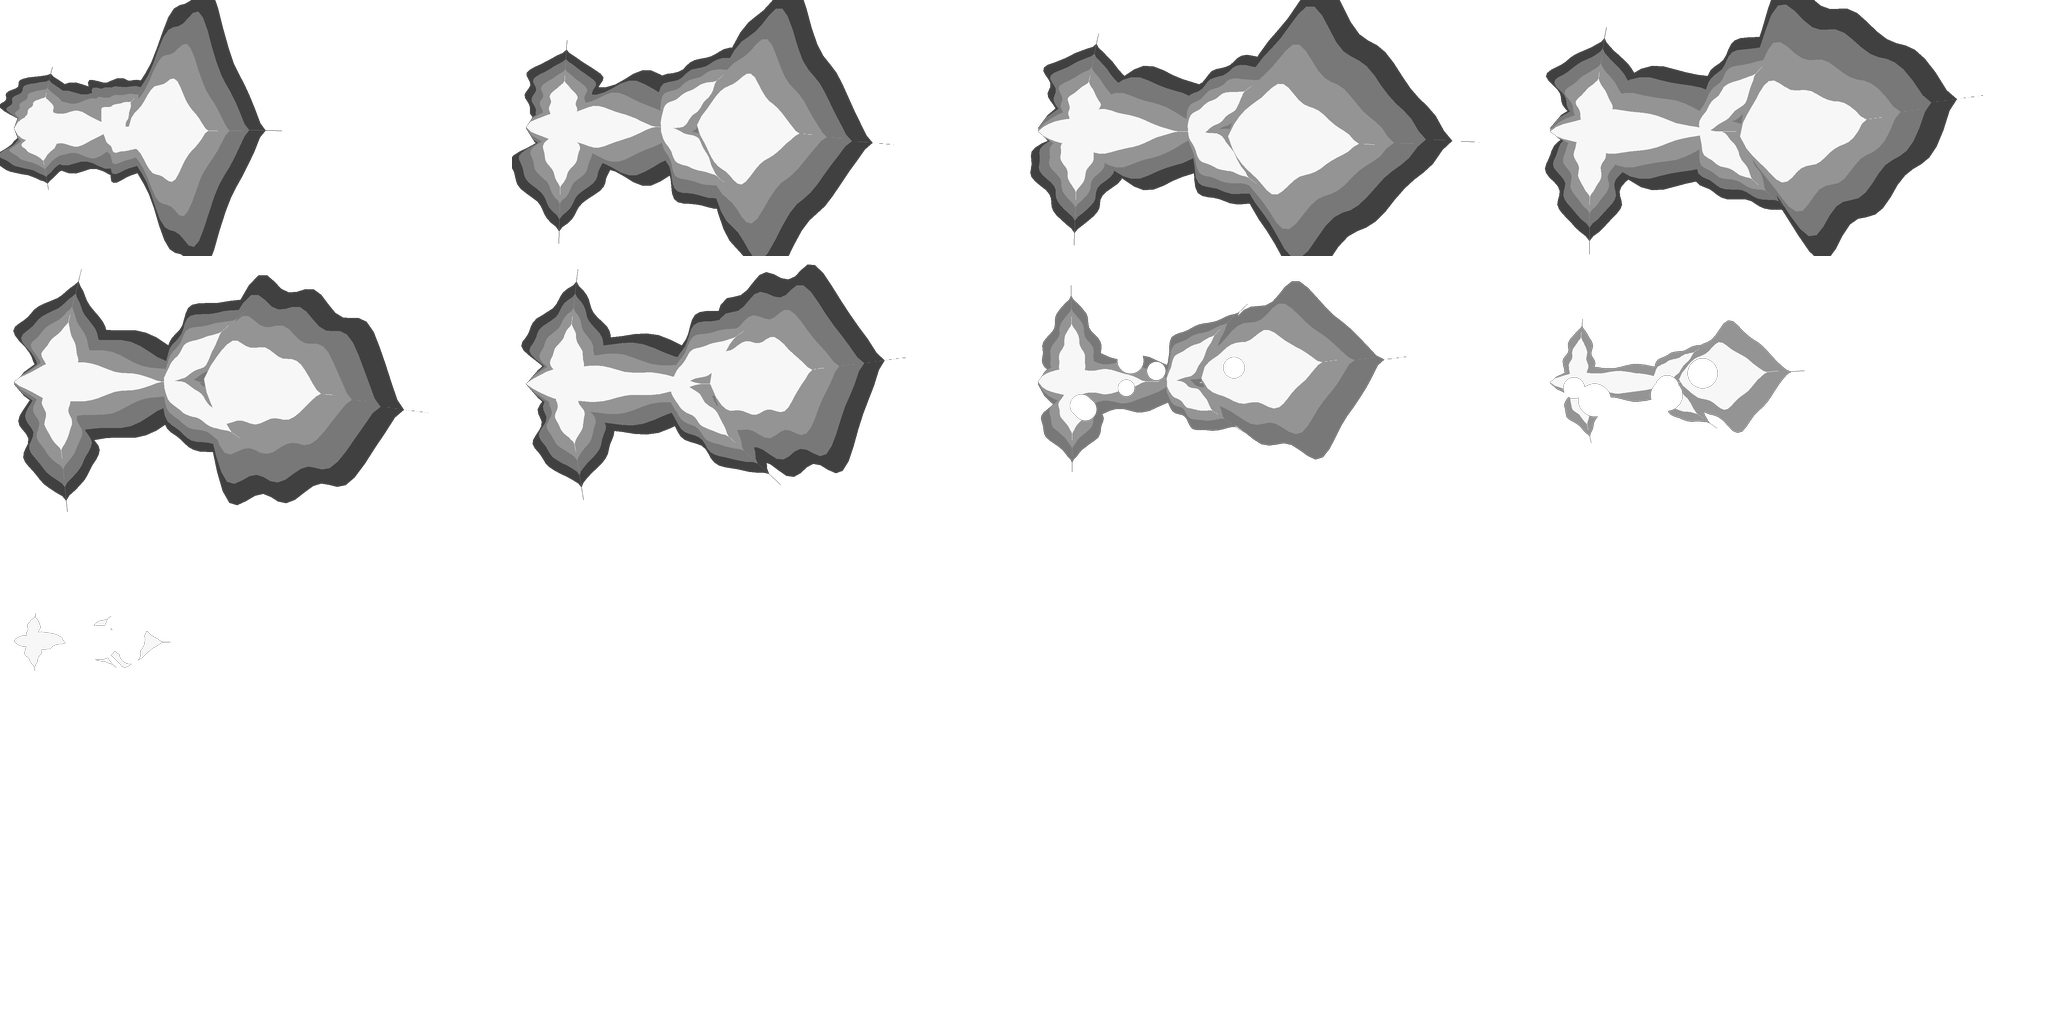
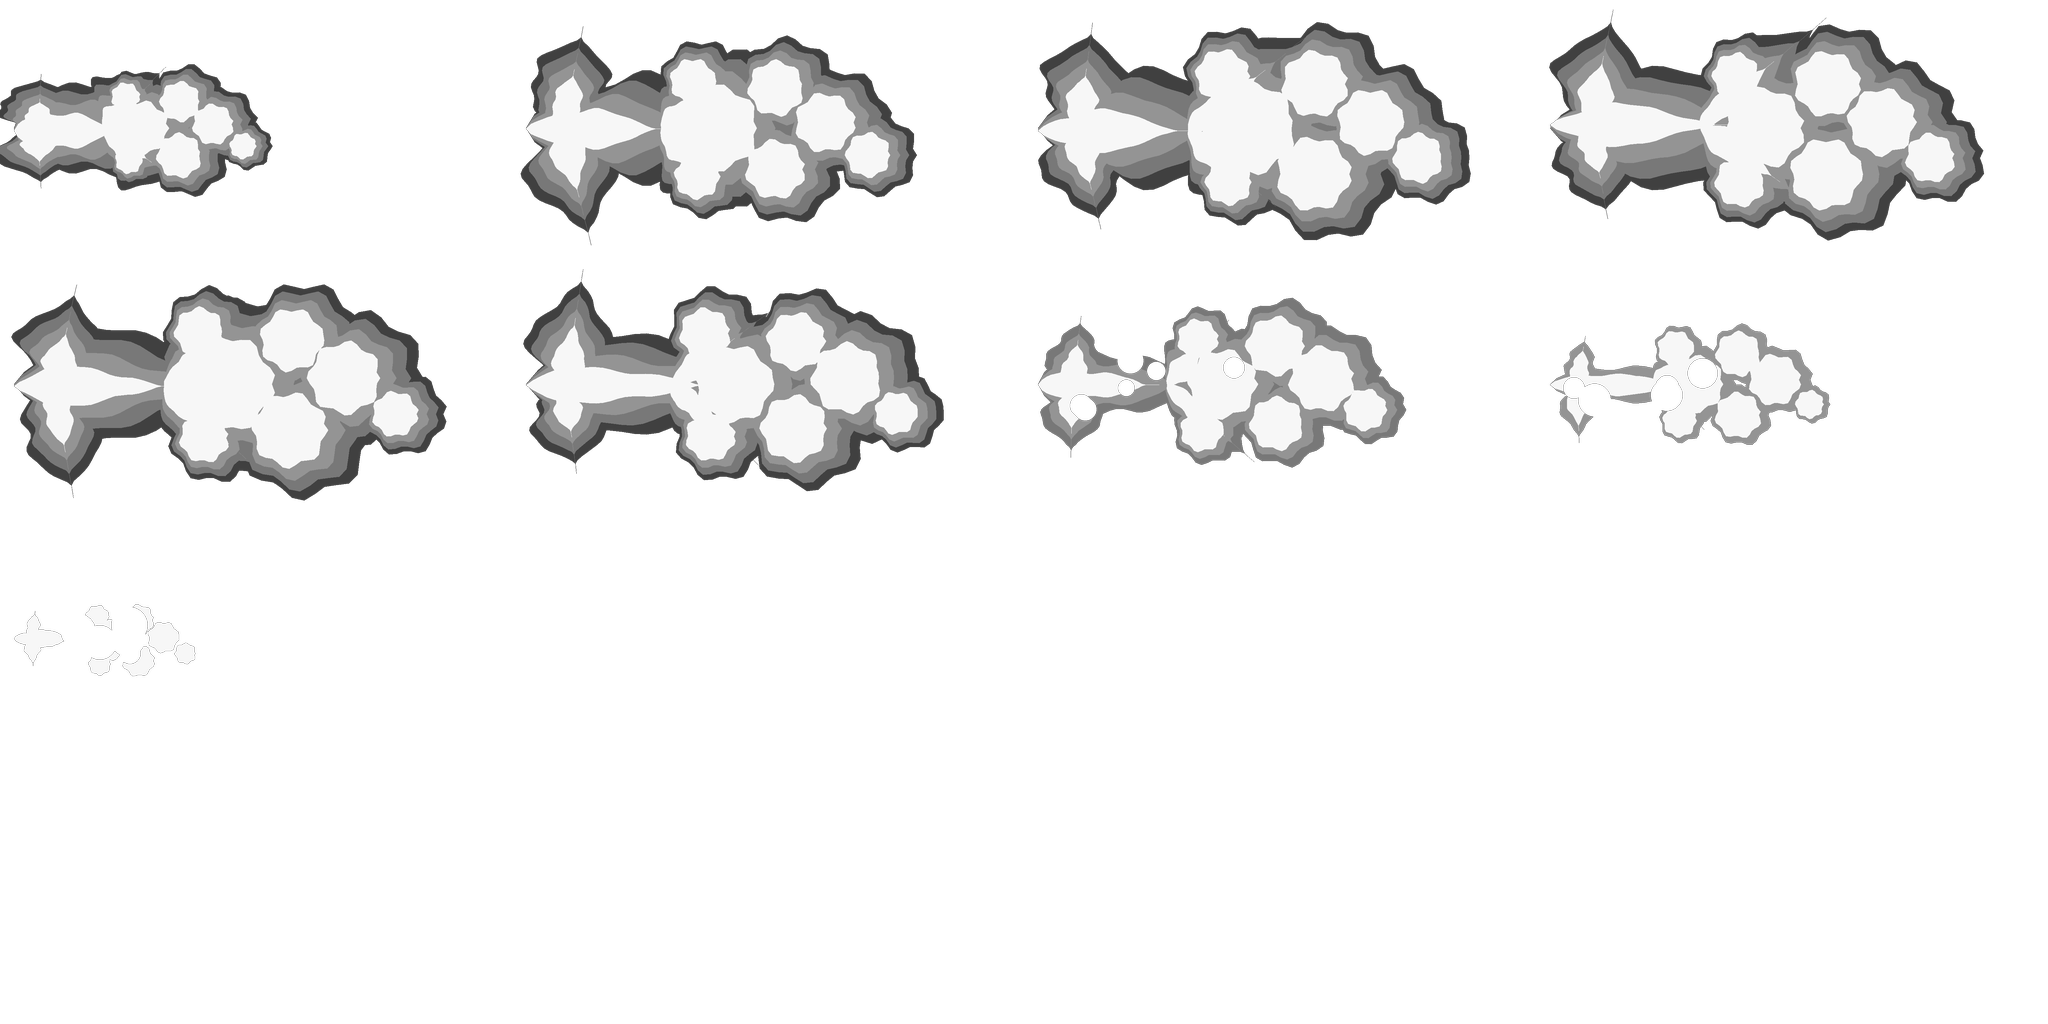
VFX: loop 2 rounds 20-21 - long gun fireball as balls, no bloom discs, arcs without laser tracers at night
- GunLong redrawn: the fireball as seven overlapping balls (it read as a flat orange hexagon), scaled 1.2; GunCrack
  1.4 and also the Salvo's launch. By day a calibre gun lights the ground through FireLight with a 0.35 card:
  Flash's default 2.6 glow card was the white disc over every blast. At night its own drawing glows 1.1.
- Indirect rounds at night: no team-green tracer (it read as a laser); the rocket head, and a small ember for the
  mortar round, fly the chord. Rocket trails in the filled grey Smoke puff (the wreck's ink rings chained).
- Sniper's brake by day: grows 0.8 and stands at most 1.0 x scale (a 3-man firework at 1.25).
- codemap refreshed.

Critic: r20 guns 72 (r19 63), small arms 78 (r19 76).

diff --git a/trench-warfare-3d/Assets/_Project/Presentation/Camera/TankRenderer.Guns.cs b/trench-warfare-3d/Assets/_Project/Presentation/Camera/TankRenderer.Guns.cs
@@ -41,7 +41,7 @@ namespace TW.Presentation.Tactical
         {
             switch (archetype)
             {
-                case VehicleArchetype.Tusk: return FlipbookFx.Book.GunCrack;
+                case VehicleArchetype.Tusk: case VehicleArchetype.Salvo: return FlipbookFx.Book.GunCrack;   // the Salvo's launch a crack too (r19: a white disc, no book)
                 case VehicleArchetype.Pavise: case VehicleArchetype.Banner: return FlipbookFx.Book.GunLong;
                 default: return FlipbookFx.Book.GunBlast;
             }
@@ -49,9 +49,11 @@ namespace TW.Presentation.Tactical
 
         /// <summary>A calibre book's width x the gun's Blast: the 37 mm small and sharp, the long gun big (r17: scale contrast,
         /// the two read as one flash at z40).</summary>
-        public static float CalibreScale(FlipbookFx.Book book) => book == FlipbookFx.Book.GunCrack ? 1.1f : book == FlipbookFx.Book.GunLong ? 1.8f : 1.6f;
+        public static float CalibreScale(FlipbookFx.Book book) => book == FlipbookFx.Book.GunCrack ? 1.4f : book == FlipbookFx.Book.GunLong ? 1.2f : 1.6f;   // r19: the crack up so its spikes read, the long gun's fireball down (1.8 was a sign in the air)
         /// <summary>A calibre book's glow by day: its drawn values, no more (1.4 bloomed it into a white disc on snow, r17).</summary>
         public const float OwnBlastDayGlow = 1.0f;
+        /// <summary>The glow card over the day light of a gun with its own blast drawing (Flash's default 2.6 is a white disc).</summary>
+        public const float OwnBlastLightCard = 0.35f;
 
         public static int RocketsOf(FxTier tier) => tier >= FxTier.High ? 4 : tier == FxTier.Medium ? 2 : 1;
 
@@ -95,7 +97,8 @@ namespace TW.Presentation.Tactical
                 for (int i = 0; i < segments; i++)
                 {
                     float a = i / (float)segments, b = (i + 1) / (float)segments;
-                    fx.AddTracer(ArcPoint(from, end, apex, a), ArcPoint(from, end, apex, b), team, Mathf.Min(width, 1.0f), lag + a * ArcSeconds);   // a thread, not a laser: the head and the smoke carry it (r10)
+                    if (!SceneMood.Night)   // at night no tracer: a team-green tube over the arc read as a laser (r19, r20); the head carries it
+                        fx.AddTracer(ArcPoint(from, end, apex, a), ArcPoint(from, end, apex, b), team, Mathf.Min(width, 1.0f), lag + a * ArcSeconds);   // a thread, not a laser: the head and the smoke carry it (r10)
                     // a rocket leaves its smoke hanging along the way it went, behind a burning head; a mortar round a thin grey thread
                     if (drawn && i > 0)
                     {
@@ -107,17 +110,24 @@ namespace TW.Presentation.Tactical
                             for (int n = 0; n < 2; n++)
                             {
                                 uint hh = FxQuality.Hash(salt * 131u + (uint)(j * 64 + i * 2 + n));
-                                float u = Mathf.Lerp(a, b, n * 0.5f + (FxQuality.Hash01(hh) - 0.5f) * 0.3f);
+                                float u = Mathf.Lerp(a, b, n * 0.5f + (FxQuality.Hash01(hh) - 0.5f) * 0.5f);
                                 Vector3 jit = new Vector3(FxQuality.Hash01(hh + 1u) - 0.5f, FxQuality.Hash01(hh + 2u) - 0.5f, FxQuality.Hash01(hh + 3u) - 0.5f) * 0.6f;
-                                books.Add(FlipbookFx.Book.WreckSmoke, ArcPoint(from, end, apex, u) + jit, RocketTrail * Mathf.Lerp(0.7f, 1.3f, FxQuality.Hash01(hh + 4u)),
+                                books.Add(FlipbookFx.Book.Smoke, ArcPoint(from, end, apex, u) + jit, RocketTrail * 0.6f * Mathf.Lerp(0.7f, 1.3f, FxQuality.Hash01(hh + 4u)),   // the filled grey puff: the wreck's book is ink rings, a chain in a line (r20)
                                     RocketTrailLife * Mathf.Lerp(0.75f, 1.25f, FxQuality.Hash01(hh + 5u)), (hh & 1u) != 0 ? FlipbookFx.Kind.Mirror : FlipbookFx.Kind.None,
-                                    velocity: wake, grow: 1.4f, alpha: 0.85f * Mathf.Lerp(0.6f, 1f, u), delay: lag + u * ArcSeconds);   // dark (the wreck's book: the Smoke book read as snow haze), it hangs and leans down wind
+                                    velocity: wake, grow: 1.4f, alpha: 0.6f * Mathf.Lerp(0.6f, 1f, u), delay: lag + u * ArcSeconds);   // dark (the wreck's book: the Smoke book read as snow haze), it hangs and leans down wind
                             }
                         }
                         else
                             books.Add(FlipbookFx.Book.WreckSmoke, at, 1.8f, 2.4f, (i & 1) == 0 ? FlipbookFx.Kind.Mirror : FlipbookFx.Kind.None,
                                 velocity: Vector3.up * 0.2f, grow: 1.2f, alpha: 0.8f, delay: lag + a * ArcSeconds);   // grey-dark, so it survives the day
                     }
+                }
+                if (!rocket && drawn && SceneMood.Night)   // the mortar round at night: a small ember flying the chord, in place of the tracer
+                {
+                    Vector3 start = ArcPoint(from, end, apex, 0.1f), chord = end - start;
+                    var cam = Camera.main;
+                    books.Add(FlipbookFx.Book.RocketHead, start, RocketHeadWidth * 0.5f, ArcSeconds * 0.9f, velocity: chord / ArcSeconds,
+                        roll: cam != null ? FlipbookFx.ScreenRoll(cam, chord) : 0f, glow: 1.8f, delay: lag);
                 }
                 if (rocket && drawn)
                 {

diff --git a/trench-warfare-3d/Assets/_Project/Presentation/Camera/TankRenderer.cs b/trench-warfare-3d/Assets/_Project/Presentation/Camera/TankRenderer.cs
@@ -1219,7 +1219,11 @@ namespace TW.Presentation.Tactical
                     v.Roll.Velocity -= Vector3.Dot(dir, right) * kick;
                     if (gunHullFlash > 0f) v.Flash = Mathf.Max(v.Flash, gunHullFlash);   // the gun lights its own hull
                     CameraShake.Add(muzzle, 4f);
-                    SceneHooks.Flash?.Invoke(muzzle + dir * 1.2f, new Color(1f, 0.72f, 0.38f), 34f, 14f, 0.16f);   // the gun lights the ground in front of it
+                    // the gun lights the ground in front of it; a gun with its own blast drawing by day through FireLight, whose glow
+                    // card is a fraction of Flash's 2.6 (r19: that card was the white disc over the Tusk's crack and the Salvo)
+                    if (classGuns && !SceneMood.Night && BlastBookOf(v.Archetype) != FlipbookFx.Book.GunBlast)
+                        SceneHooks.FireLight?.Invoke(muzzle + dir * 1.2f, new Color(1f, 0.72f, 0.38f), 34f, 14f, 0.16f, OwnBlastLightCard);
+                    else SceneHooks.Flash?.Invoke(muzzle + dir * 1.2f, new Color(1f, 0.72f, 0.38f), 34f, 14f, 0.16f);
                     if (books == null || !books.Ready) break;
                     var cam = Camera.main;
                     float roll = cam != null ? FlipbookFx.ScreenRoll(cam, dir) : 0f;
@@ -1242,7 +1246,7 @@ namespace TW.Presentation.Tactical
                         // its own drawing: pushed off the hull and, by day, no brighter than its fill, so the silhouette - a crack
                         // or a cone with a fireball - survives on snow (r17: both overexposed to the same white disc on the hulls)
                         books.Add(blastBook, muzzle + dir * (own ? blastWide * 0.45f + gun.Blast * 0.5f : gun.Blast * 0.7f), blastWide, own ? 0.75f : 0.45f, roll: roll,
-                            glow: SceneMood.Night ? 2.2f : own ? OwnBlastDayGlow : 1.4f);
+                            glow: SceneMood.Night ? (own ? 1.1f : 2.2f) : own ? OwnBlastDayGlow : 1.4f);   // its own drawing at night at half: 2.2 blew the fireball to a smear (r20)
                         if (!own) books.Add(FlipbookFx.Book.Flash, muzzle + dir * 0.5f, gun.Blast * 0.8f, 0.08f, roll: roll, glow: 2f, pop: 0.5f);
                         books.Add(FlipbookFx.Book.Puff, muzzle + dir * 0.6f, gun.Blast * 0.8f, 1.2f, velocity: dir * 1.5f + Vector3.up * 0.4f, grow: 1.2f, alpha: 0.7f, pop: 0.3f);   // the ring of smoke the shot leaves: it still reads in a busy frame
                     }
@@ -1250,7 +1254,7 @@ namespace TW.Presentation.Tactical
                     if (gun.Arc && e.A < world.HighWater) ThrowArc(muzzle, (Vector3)e.Pos, team, gun.Tracer, v.Archetype == VehicleArchetype.Salvo, e.Tick * 7u + (uint)e.A);   // an indirect round goes up and over; a Salvo's ripple
                     if (classGuns) GunExtras(v.Archetype, muzzle, dir, gun.Blast);   // near the eye, the gun's own piece (TankRenderer.Guns.cs)
                     bool drawnBlast = classGuns && BlastBookOf(v.Archetype) != FlipbookFx.Book.GunBlast && recipes < 0.5f;   // its own drawing carries the day: a small flash, not a bloom over it (r17)
-                    books.Add(FlipbookFx.Book.Flash, muzzle + dir * 0.4f, drawnBlast && !SceneMood.Night ? 1.6f : 3.2f, 0.1f, roll: UnityEngine.Random.value * 6.28f, glow: SceneMood.Night ? 4f : drawnBlast ? 0.8f : 2f, pop: 0.5f);
+                    books.Add(FlipbookFx.Book.Flash, muzzle + dir * 0.4f, drawnBlast ? 1.6f : 3.2f, 0.1f, roll: UnityEngine.Random.value * 6.28f, glow: drawnBlast ? (SceneMood.Night ? 1.5f : 0.8f) : SceneMood.Night ? 4f : 2f, pop: 0.5f);   // a small flash under its own drawing, night too (r20: a white ball under the Salvo's crack)
                     for (int k = 0; k < 3; k++)
                         books.Add(FlipbookFx.Book.Smoke, muzzle + dir * (0.6f + k * 0.7f), (1.2f + k * 0.4f) * gun.Smoke, 2.5f + k * 0.5f, (k & 1) == 0 ? FlipbookFx.Kind.Mirror : FlipbookFx.Kind.None,
                             velocity: dir * (2.5f - k * 0.6f) + Vector3.up * 0.5f, grow: 1.6f, alpha: 0.55f, delay: k * 0.03f);

diff --git a/trench-warfare-3d/Assets/_Project/Presentation/Camera/CombatFx.cs b/trench-warfare-3d/Assets/_Project/Presentation/Camera/CombatFx.cs
@@ -608,7 +608,7 @@ namespace TW.Presentation.Tactical
                             float glowNow = FlareGlow(SceneMood.Night, SceneHooks.CloseUp, classArms > 0f) * SceneTints.Now.Glow * graze * (own.HasValue && SceneMood.Night ? 0.62f : 1f);   // a book at night: 2.0, not 3.2 (r13)
                             if (own.HasValue && !SceneMood.Night) glowNow = Mathf.Min(glowNow, ClassBookDayGlow);   // by day a fire book over 1.6 clips to white on snow (iso4: the sniper's cross was a white bloom)
                             books.Add(book, from + along * (wide * 0.44f) + clear, wide, FlareLifeAt(arms.FlareLife, SceneHooks.CloseUp, classArms > 0f), flip ? FlipbookFx.Kind.Mirror : FlipbookFx.Kind.None,
-                                velocity: carried, roll: roll + (flip ? Mathf.PI : 0f), glow: glowNow, height: own.HasValue ? Mathf.Min(wide * 0.5f, ClassBookTallest * scale) : 0f, delay: delay);   // a class book at its cell's 2:1, whatever the import did (r10: drawn squashed)
+                                velocity: carried, roll: roll + (flip ? Mathf.PI : 0f), glow: glowNow, height: own.HasValue ? Mathf.Min(wide * 0.5f, (own == FlipbookFx.Book.MuzzleBrake && !SceneMood.Night ? BrakeDayTallest : ClassBookTallest) * scale) : 0f, delay: delay);   // a class book at its cell's 2:1, whatever the import did (r10: drawn squashed)
                             // a small pop under the class's drawing: the readiest cue that a shot went off (r12)
                             if (own.HasValue || quarter) books.Add(FlipbookFx.Book.Star, from + along * (flare * 0.1f) + clear, Mathf.Min(flare * 0.3f, 0.6f * scale), 0.1f, roll: roll, glow: glowNow, delay: delay);
                         }

diff --git a/trench-warfare-3d/Assets/_Project/Presentation/Camera/CombatFx.Weapons.cs b/trench-warfare-3d/Assets/_Project/Presentation/Camera/CombatFx.Weapons.cs
@@ -89,6 +89,10 @@ namespace TW.Presentation.Tactical
         /// <summary>The most a class's muzzle book glows by day: FlareGlow's close-up 2.6 was for the additive Muzzle card; a
         /// premultiplied fire book at that clips its core, body and fringe to one white bloom on snow (iso4).</summary>
         public const float ClassBookDayGlow = 1.6f;
+        /// <summary>The brake's growth by day: with the glow capped its cross shows, 2.5 men wide at 1.25 (r19 "a firework").</summary>
+        public const float BrakeDay = 0.8f;
+        /// <summary>The brake's height by day, x scale: its side jets thrown 3 men wide read as a firework (r20).</summary>
+        public const float BrakeDayTallest = 1.0f;
 
         public static float FlareGlow(bool night, float closeUp, bool classLooks) => night ? 3.2f : classLooks ? Mathf.Lerp(1.6f, 2.6f, closeUp) : 1.6f;
 
@@ -133,7 +137,7 @@ namespace TW.Presentation.Tactical
 
         public static float MuzzleScale(FlipbookFx.Book book, float closeUp)
         {
-            float k = book == FlipbookFx.Book.MuzzleBrake ? 1.25f : book == FlipbookFx.Book.MuzzleStream ? 1.4f : book == FlipbookFx.Book.MuzzlePop ? 0.9f : 1f;
+            float k = book == FlipbookFx.Book.MuzzleBrake ? (SceneMood.Night ? 1.25f : BrakeDay) : book == FlipbookFx.Book.MuzzleStream ? 1.4f : book == FlipbookFx.Book.MuzzlePop ? 0.9f : 1f;
             return Mathf.Lerp(1f, k * (SceneMood.Night ? BookGrowNight : BookGrow), closeUp);
         }
 

diff --git a/trench-warfare-3d/Assets/_Project/Tests/EditMode/FxQualityTests.cs b/trench-warfare-3d/Assets/_Project/Tests/EditMode/FxQualityTests.cs
@@ -194,6 +194,7 @@ namespace TW.Tests
             Assert.AreEqual(FlipbookFx.Book.GunCrack, TankRenderer.BlastBookOf(TW.Sim.VehicleArchetype.Tusk), "the 37 mm: a crack");
             Assert.AreEqual(FlipbookFx.Book.GunLong, TankRenderer.BlastBookOf(TW.Sim.VehicleArchetype.Pavise), "the long gun");
             Assert.AreEqual(FlipbookFx.Book.GunLong, TankRenderer.BlastBookOf(TW.Sim.VehicleArchetype.Banner));
+            Assert.AreEqual(FlipbookFx.Book.GunCrack, TankRenderer.BlastBookOf(TW.Sim.VehicleArchetype.Salvo), "the Salvo's launch: a crack, not a white disc (r19)");
             Assert.AreEqual(FlipbookFx.Book.GunBlast, TankRenderer.BlastBookOf(TW.Sim.VehicleArchetype.Kettle), "the rest keep the shared blast");
             Assert.AreNotEqual(TankRenderer.BlastBookOf(TW.Sim.VehicleArchetype.Tusk), TankRenderer.BlastBookOf(TW.Sim.VehicleArchetype.Pavise), "critique r15: they read alike");
         }
